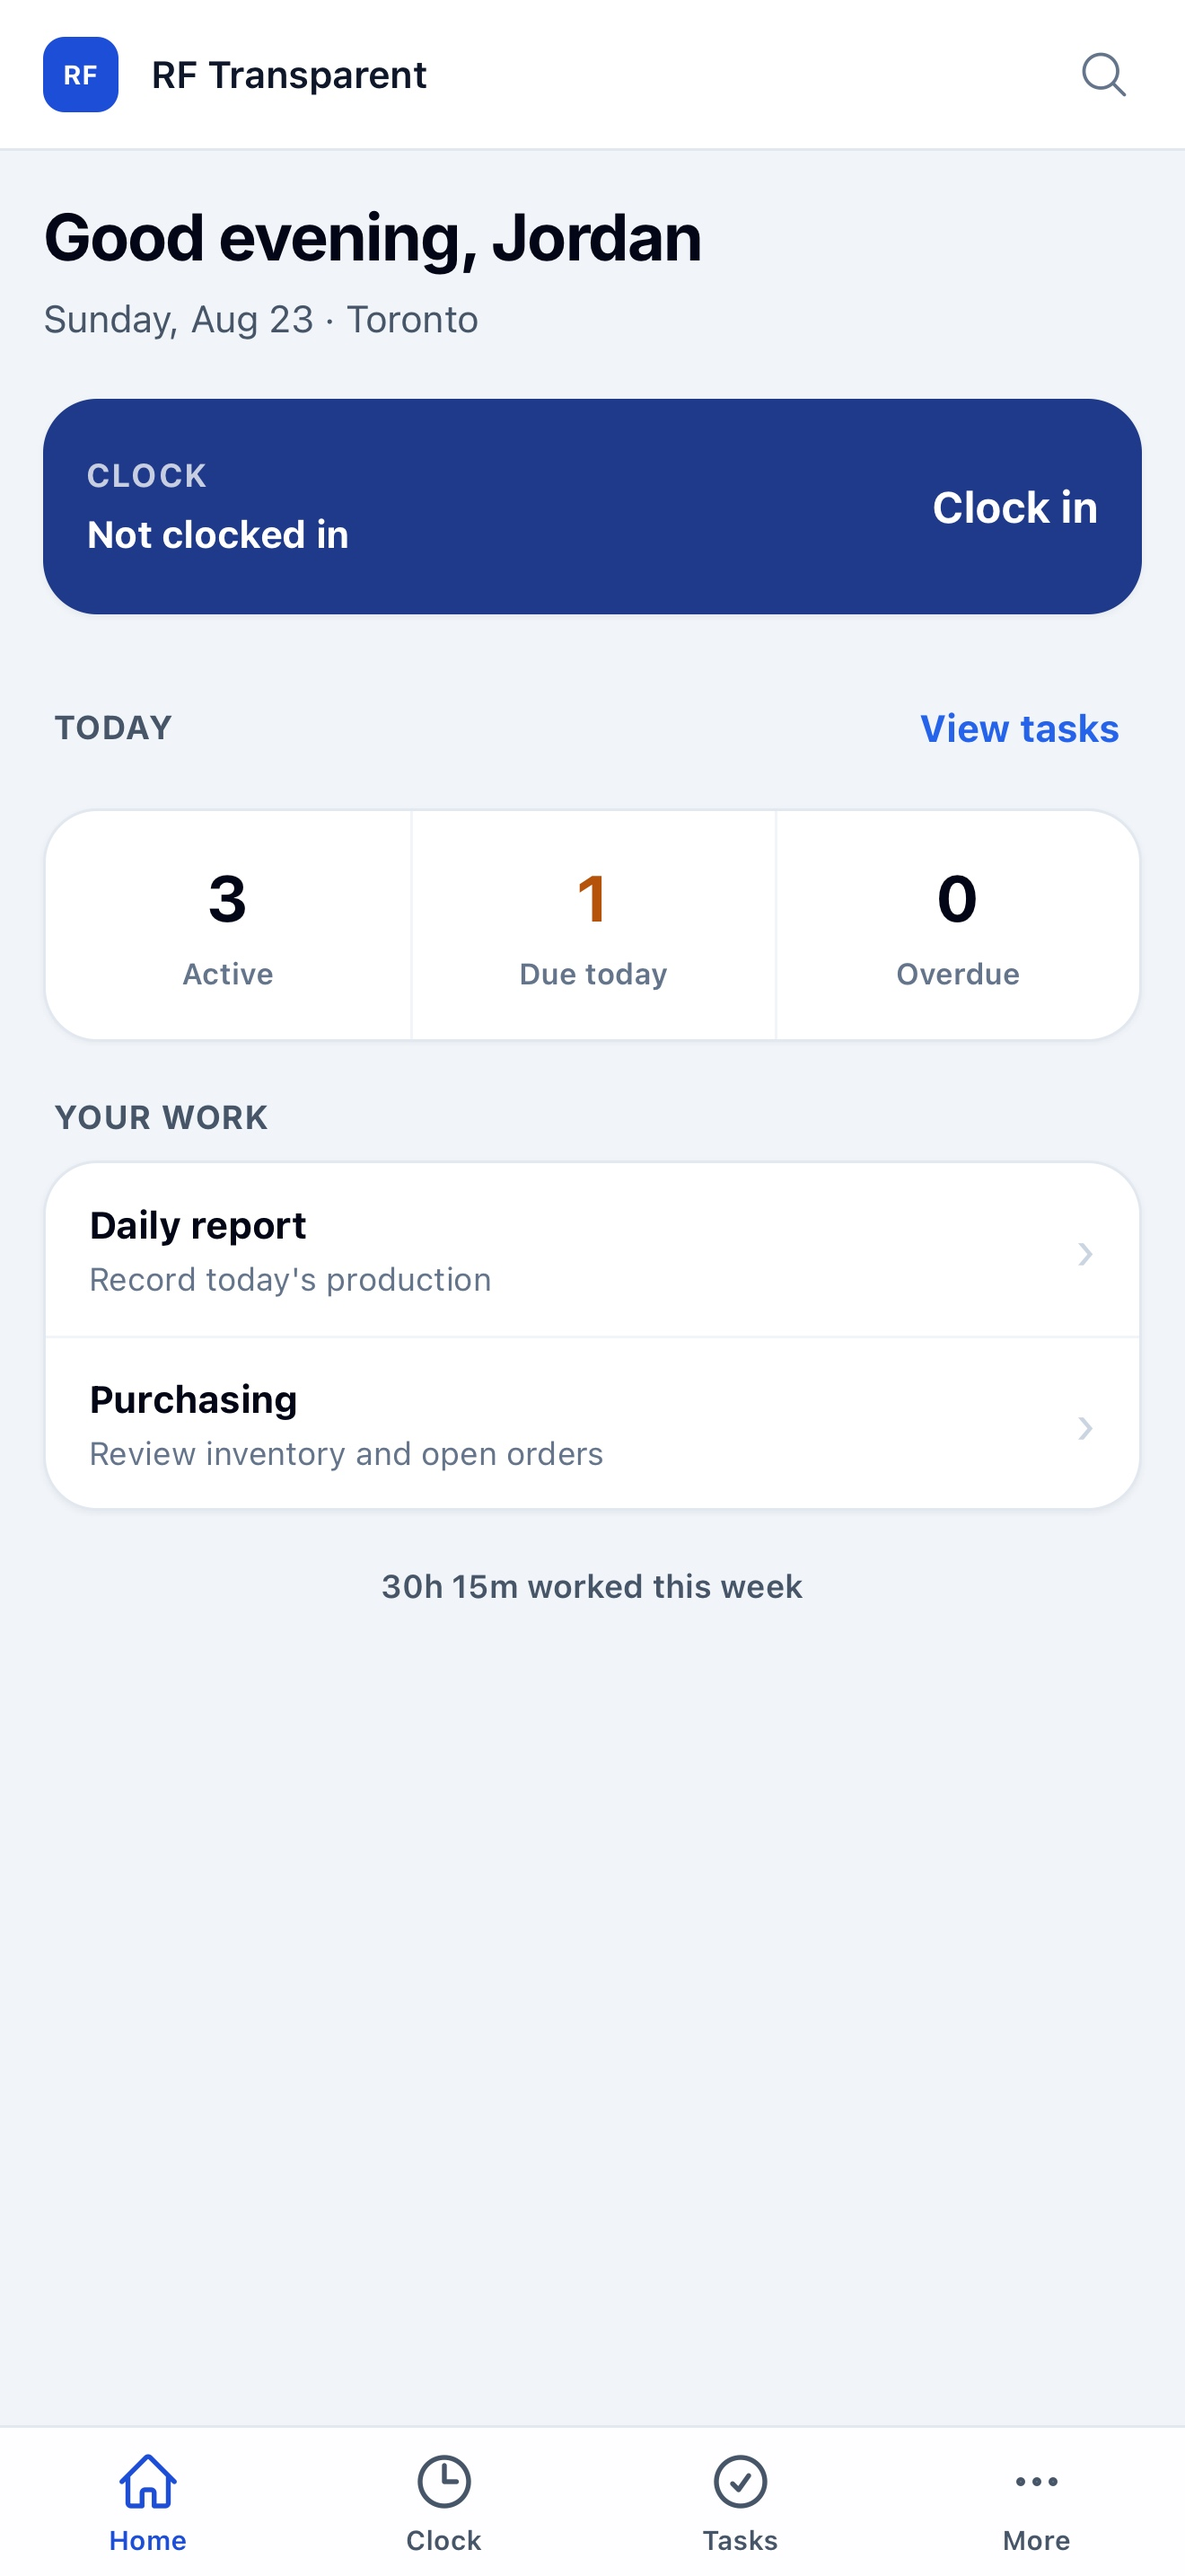
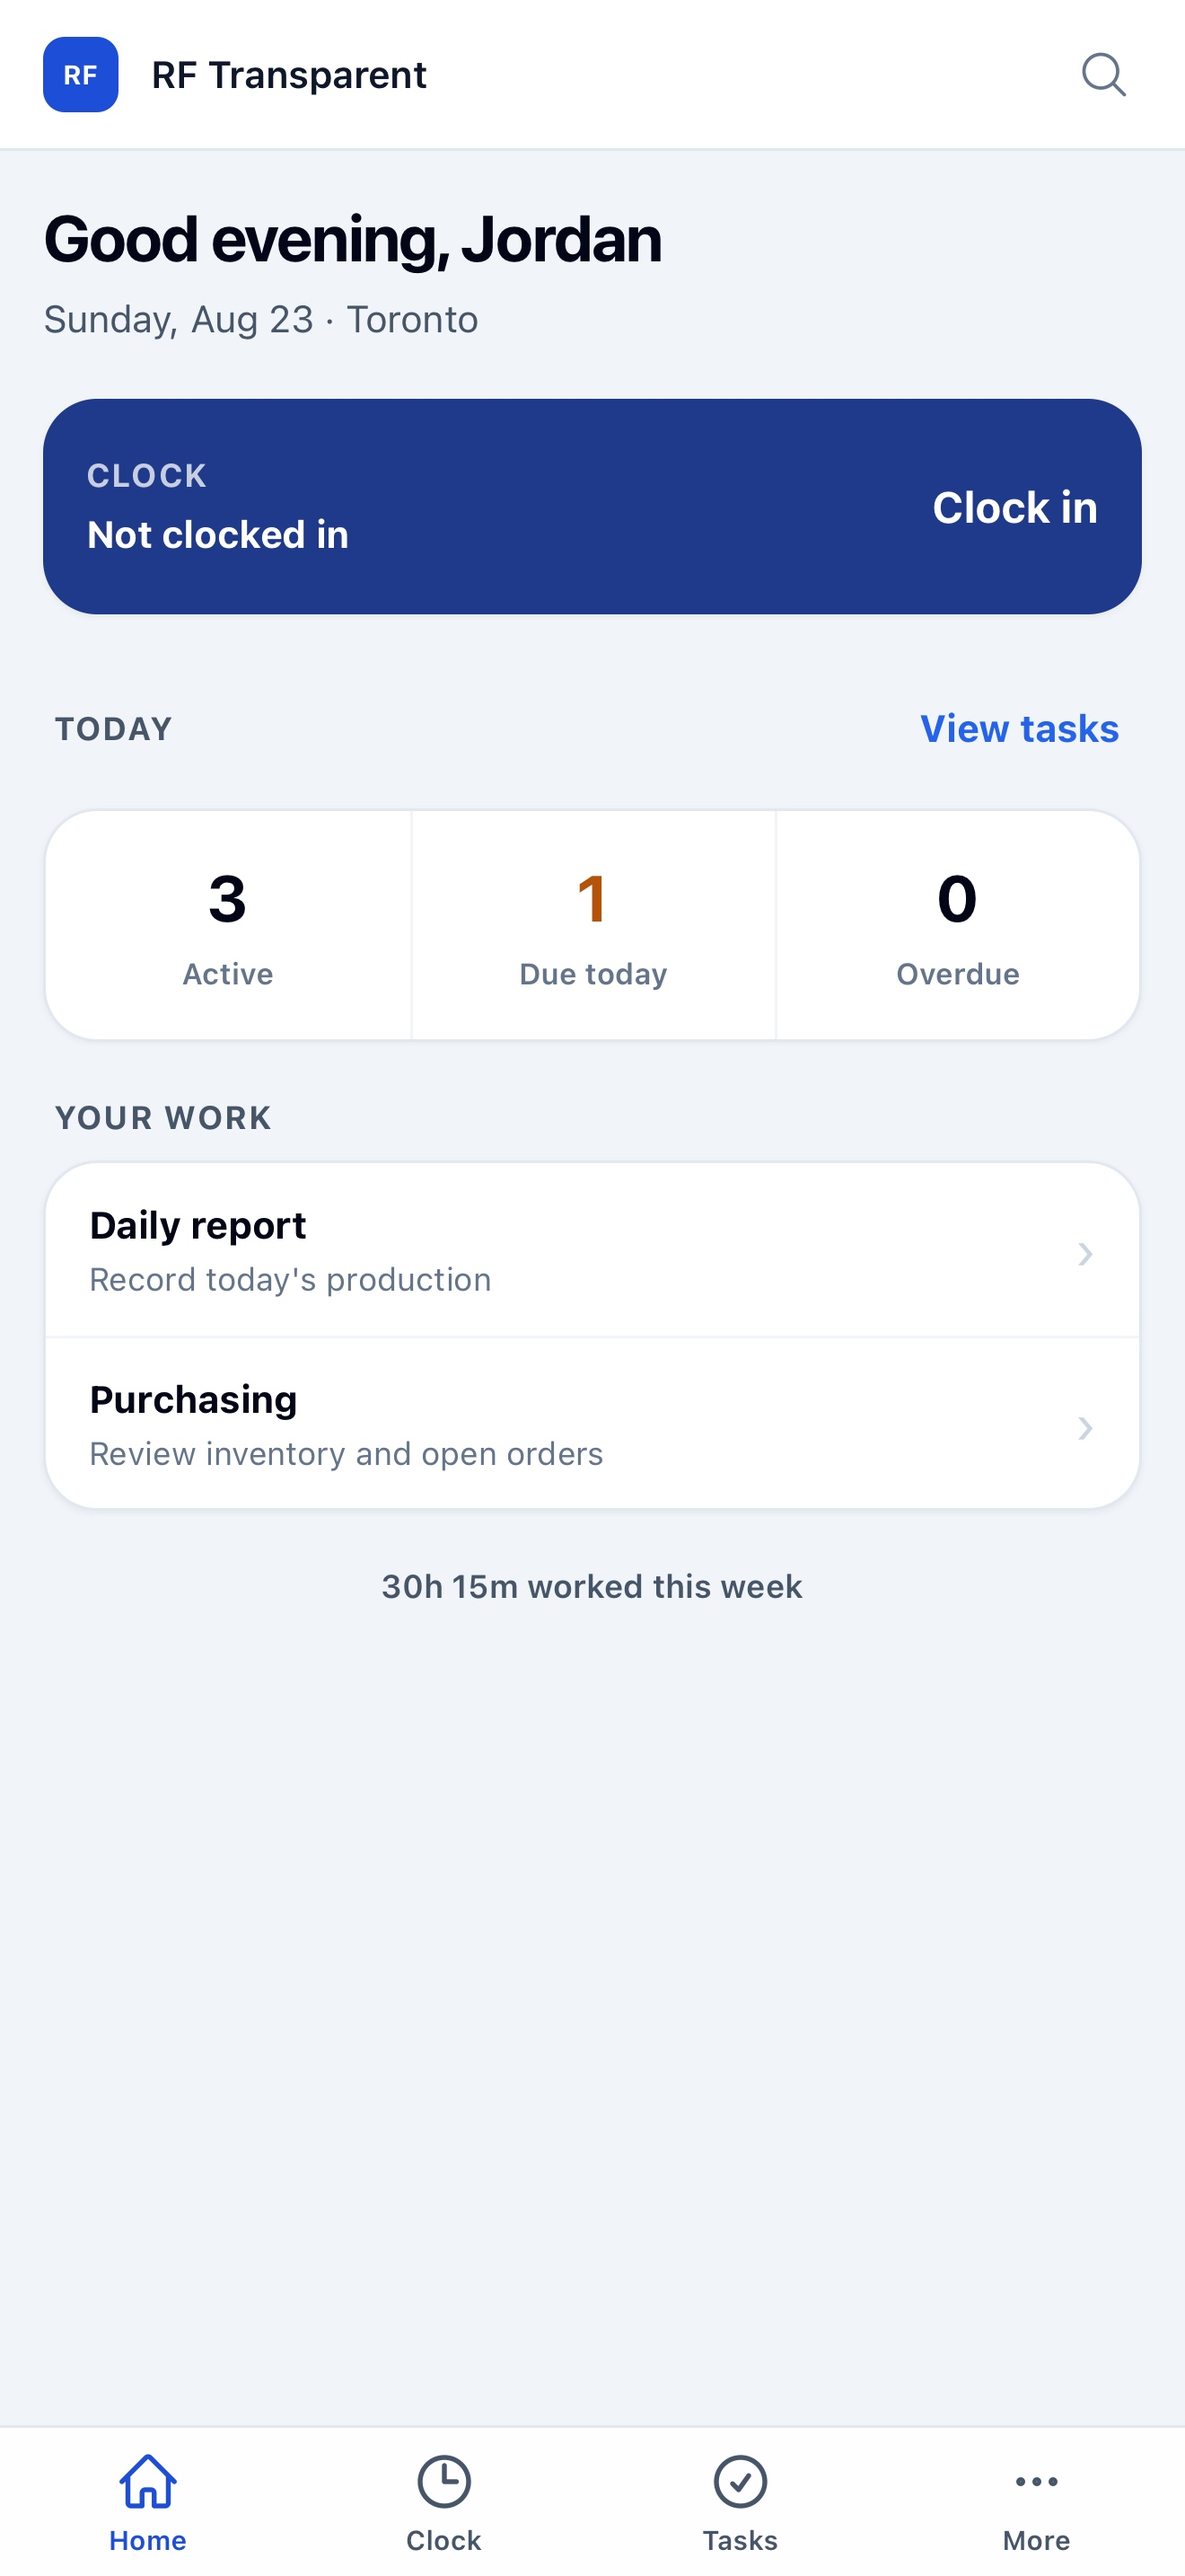
Make App Store release build self-contained

Changed region(s): [[0.1242, 0.0621, 0.5902, 0.1241], [0.1864, 0.4034, 0.2174, 0.4344]]

diff --git a/src/app/layout.tsx b/src/app/layout.tsx
@@ -1,15 +1,8 @@
 import type { Metadata, Viewport } from "next";
-import { Inter } from "next/font/google";
 import "./globals.css";
 import SidebarLayout from "@/components/SidebarLayout";
 import NativeAppRuntime from "@/components/NativeAppRuntime";
 import PushRegistrar from "@/components/PushRegistrar";
-
-const inter = Inter({
-  subsets: ["latin"],
-  display: "swap",
-  variable: "--font-inter",
-});
 
 export const metadata: Metadata = {
   title: {
@@ -38,7 +31,7 @@ export default function RootLayout({
   children: React.ReactNode;
 }) {
   return (
-    <html lang="en" className={inter.variable}>
+    <html lang="en">
       <body className="min-h-screen">
         <NativeAppRuntime>
           <PushRegistrar />

diff --git a/tailwind.config.ts b/tailwind.config.ts
@@ -33,7 +33,6 @@ const config: Config = {
       },
       fontFamily: {
         sans: [
-          "var(--font-inter)",
           "system-ui",
           "-apple-system",
           "BlinkMacSystemFont",
